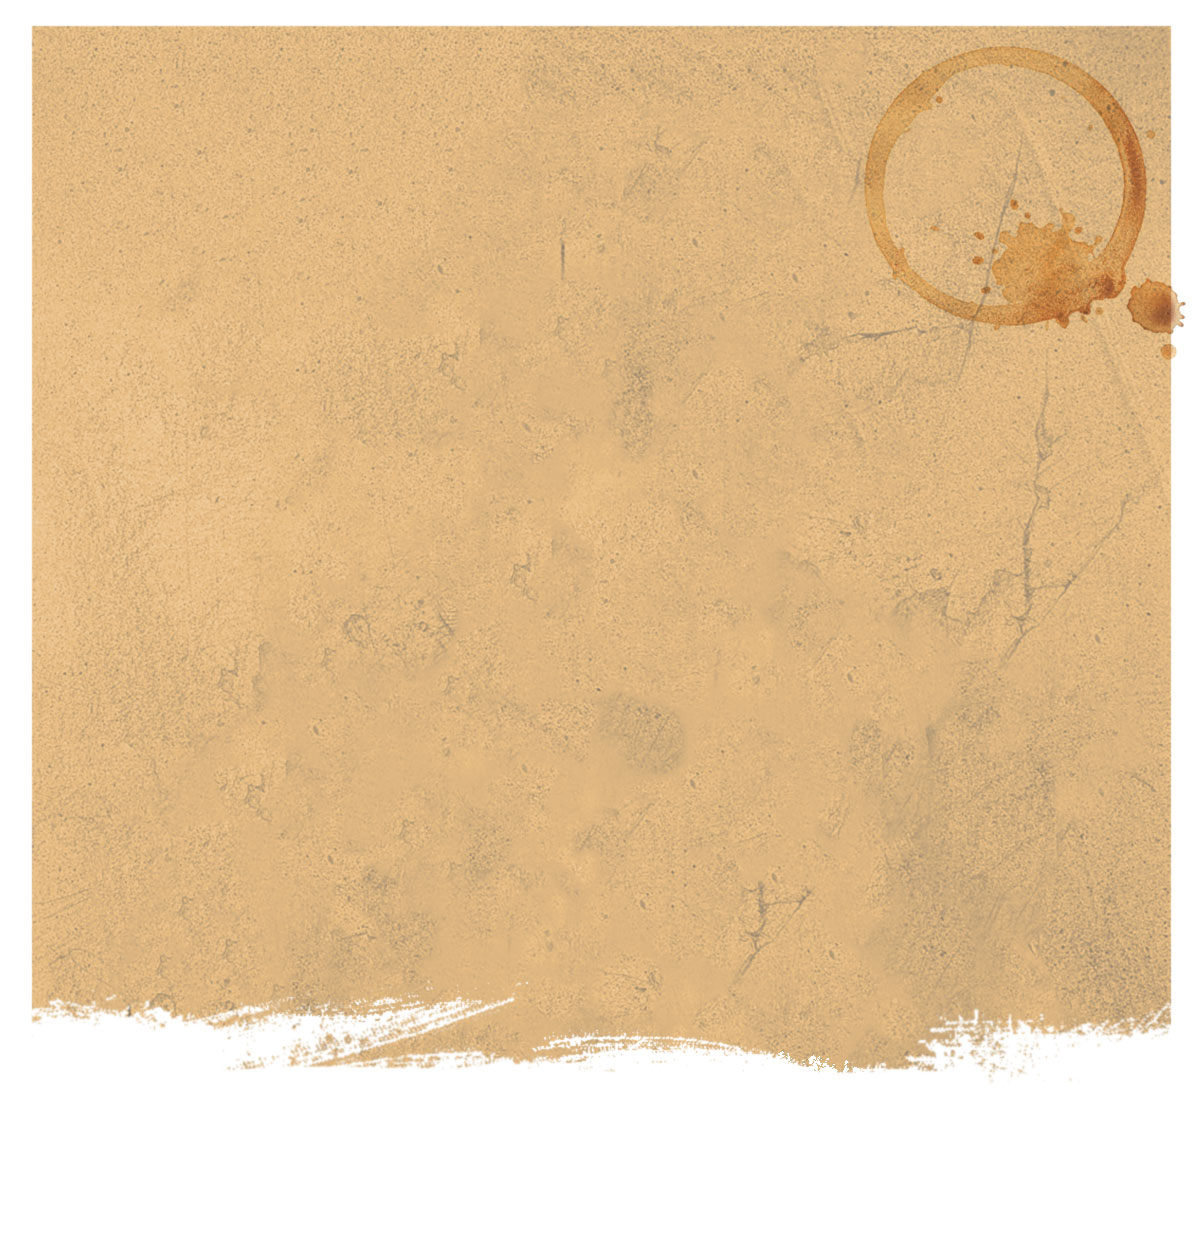
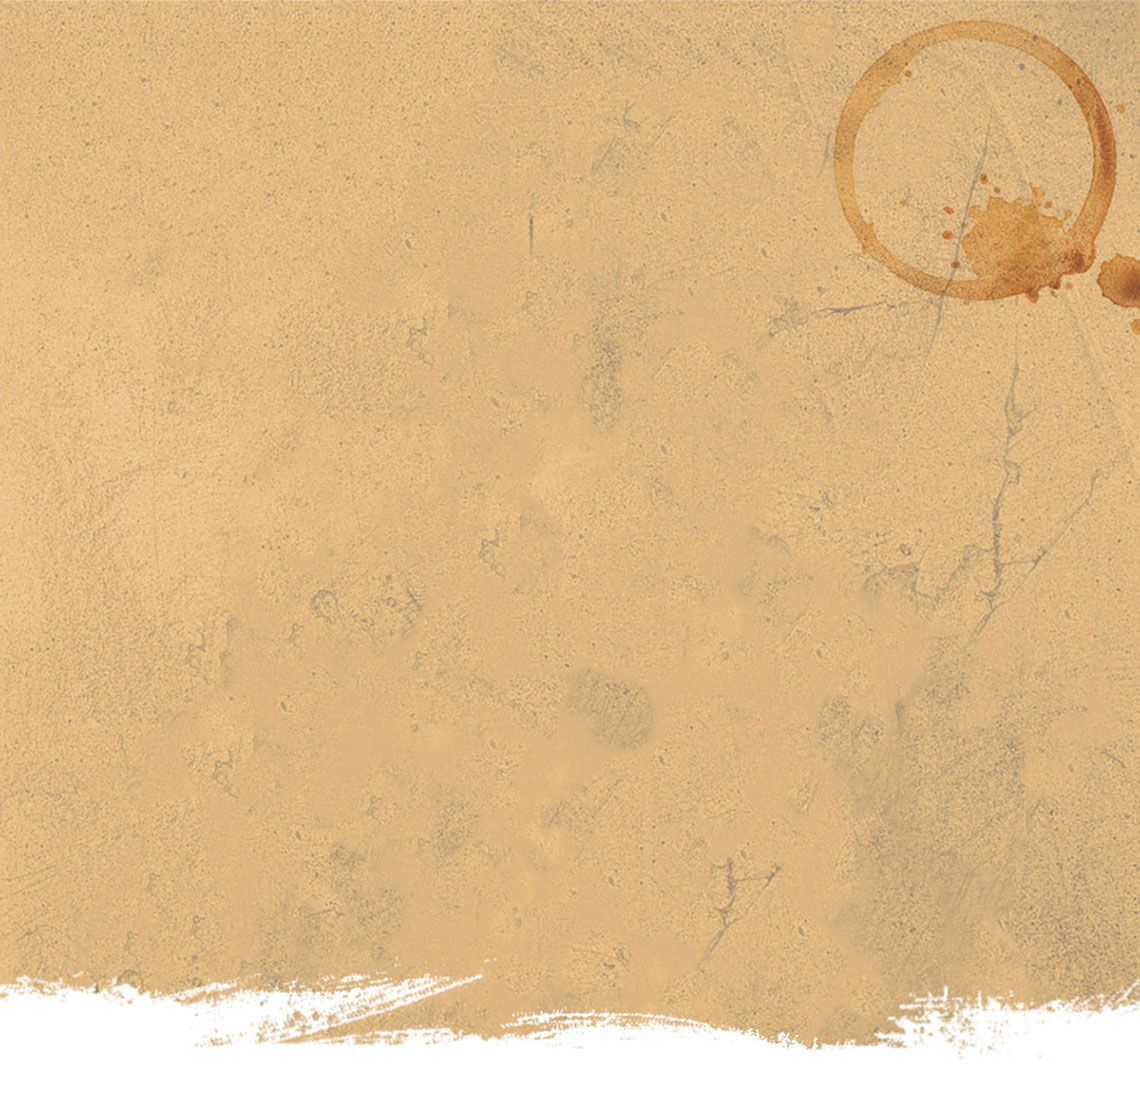
Some preliminary responsive work

diff --git a/css/app.css b/css/app.css
@@ -144,7 +144,7 @@
     order: 6; } }
 
 .row {
-  max-width: 75rem;
+  max-width: 1140px;
   margin-right: auto;
   margin-left: auto;
   display: -webkit-box;
@@ -3169,10 +3169,11 @@ body, html {
   height: 100%; }
 
 body {
-  background: #FFF url("../img/background.jpg") no-repeat center top;
+  background-color: #fff;
   background-size: contain;
   color: #724828;
   font-size: 22px;
+  margin-top: 25px;
   font-family: "museo-sans", Arial, sans-serif;
   font-style: normal;
   font-weight: 300;
@@ -3199,28 +3200,27 @@ p {
   padding-bottom: 18px; }
 
 .wrapper {
+  background: #FFF url("../img/background.jpg") no-repeat center top;
   position: relative; }
 
 .paper {
   background: #f6f3df url("../img/bkg-paper-lines.png") no-repeat left top;
   box-shadow: 3.5px 6.062px 5px 0px rgba(0, 0, 0, 0.27);
-  padding: 107px 100px 100px 100px;
-  position: absolute;
-  left: 180px;
-  top: 91px;
-  width: 845px;
-  height: 1020px;
+  padding: 10%;
+  margin-top: 50px;
+  min-height: 1020px;
   -webkit-transform: rotate(3deg);
   -ms-transform: rotate(3deg);
   transform: rotate(3deg);
   z-index: 20; }
   .paper.home {
-    padding-top: 133px; }
+    padding-top: 17%; }
 
 nav {
   position: absolute;
-  left: 22px;
-  top: 275px; }
+  left: 0;
+  top: 275px;
+  width: 225px; }
   nav a {
     background-color: #bf432d;
     color: #fbdc46;
@@ -3229,8 +3229,7 @@ nav {
     margin-bottom: 13px;
     max-height: 45px;
     padding: 12px 0 12px 15px;
-    text-decoration: none;
-    width: 200px; }
+    text-decoration: none; }
     nav a:visited {
       color: #fbdc46; }
     nav a.active, nav a:focus {
@@ -3242,16 +3241,16 @@ nav {
   border: 7px solid #bd9258;
   box-shadow: 3.5px 6.062px 5px 0 rgba(0, 0, 0, 0.27);
   position: absolute;
-  left: 10px;
+  left: -12px;
   top: 693px;
-  width: 183px;
-  height: 184px;
+  width: 18.5%;
+  height: auto;
   z-index: 100; }
 
 .logo {
   position: absolute;
-  left: 90px;
-  top: 80px;
+  left: 55px;
+  top: 55px;
   z-index: 100; }
 
 .icons {
@@ -3259,8 +3258,9 @@ nav {
   margin: 0;
   padding: 0;
   position: absolute;
-  right: 65px;
-  top: 561px; }
+  left: 92.5%;
+  top: 550px;
+  text-align: center; }
   .icons a {
     color: #7e5535;
     font-size: 52px; }

diff --git a/sass/_layout.scss b/sass/_layout.scss
@@ -1,29 +1,28 @@
 
 .wrapper {
+    background: #FFF url('../img/background.jpg') no-repeat center top;
     position: relative;
 }
 
 .paper {
     background: #f6f3df url('../img/bkg-paper-lines.png') no-repeat left top;;
     box-shadow: 3.5px 6.062px 5px 0px rgba(0, 0, 0, 0.27);
-    padding: 107px 100px 100px 100px;
-    position: absolute;
-    left: 180px;
-    top: 91px;
-    width: 845px;
-    height: 1020px;
+    padding: 10%;
+    margin-top: 50px;
+    min-height: 1020px;
     transform: rotate(3deg);
     z-index: 20;
 
     &.home {
-        padding-top: 133px;
+        padding-top: 17%;
     }
 }
 
 nav {
     position: absolute;
-    left: 22px;
+    left: 0;
     top: 275px;
+    width: 225px;
 
     a {
         background-color: $color-secondary;
@@ -34,7 +33,6 @@ nav {
         max-height: 45px;
         padding: 12px 0 12px 15px;
         text-decoration: none;
-        width: 200px;
 
         &:visited {
             color: $color-nav;
@@ -47,4 +45,3 @@ nav {
         }
     }
 }
-

diff --git a/sass/app.scss b/sass/app.scss
@@ -1,5 +1,5 @@
 
-
+$global-width: 1140px;
 @import '../node_modules/foundation-sites/scss/foundation';
 @include foundation-flex-classes;
 @include foundation-flex-grid;
@@ -16,17 +16,17 @@
     box-shadow: 3.5px 6.062px 5px 0 rgba(0, 0, 0, 0.27);
 
     position: absolute;
-    left: 10px;
+    left: -12px;
     top: 693px;
-    width: 183px;
-    height: 184px;
+    width: 18.5%;
+    height: auto;
     z-index: 100;
 }
 
 .logo {
     position: absolute;
-    left: 90px;
-    top: 80px;
+    left: 55px;
+    top: 55px;
     z-index: 100;
 }
 
@@ -35,12 +35,12 @@
     margin: 0;
     padding: 0;
     position: absolute;
-    right: 65px;
-    top: 561px;
+    left: 92.5%;
+    top: 550px;
+    text-align: center;
 
     a {
         color: #7e5535;
         font-size: 52px;
     }
 }
-

diff --git a/index.html b/index.html
@@ -33,7 +33,7 @@
             <a ui-sref="contact"  ui-sref-active="active">CONTACT</a>
         </nav>
 
-        <div ui-view class="page-container"></div>
+        <div ui-view class="page-container small-9 small-offset-2"></div>
 
         <ul class="icons">
             <li><a href="http://atlantajones.com" target="_blank"><i class="fa fa-rss-square"></i></a></li>

diff --git a/sass/_base.scss b/sass/_base.scss
@@ -20,10 +20,11 @@ body, html {
 }
 
 body {
-    background: #FFF url('../img/background.jpg') no-repeat center top;
+    background-color: #fff;
     background-size: contain;
     color: $color-primary;
     font-size: 22px;
+    margin-top: 25px;
     @include default-font;
     position: relative;
 }
